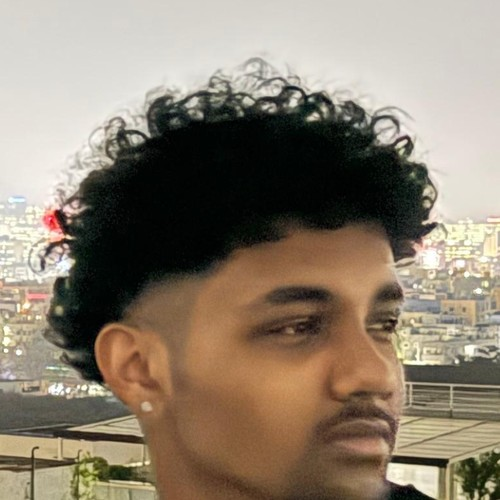
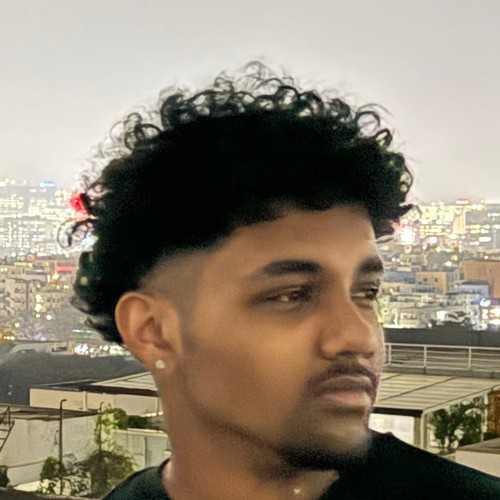
Re-crop badge photo, declutter hero copy, add work previews, wire real links
- Re-crop ID badge photo so the full head and chin are visible
- Trim home page hero copy (drop redundant eyebrow line, shorter tagline)
- Add hand-drawn SVG preview icons to each Work page project modal
- Wire real GitHub, LinkedIn, and email links across home and contact pages

diff --git a/work.js b/work.js
@@ -15,6 +15,11 @@
       tags: ["Python", "OpenCV", "TensorFlow"],
       link: "https://github.com/sidtatavarthi-dev/ObjectDetection",
       linkLabel: "View source on GitHub →",
+      preview: `<svg viewBox="0 0 100 100" fill="none" stroke="currentColor" stroke-width="4" stroke-linecap="round" stroke-linejoin="round">
+        <path d="M15 30 V15 H30" /><path d="M70 15 H85 V30" />
+        <path d="M85 70 V85 H70" /><path d="M30 85 H15 V70" />
+        <circle cx="50" cy="50" r="14" />
+      </svg>`,
     },
     {
       id: "jarvis",
@@ -29,6 +34,11 @@
       tags: ["Python", "Speech Recognition", "Automation"],
       link: "https://github.com/sidtatavarthi-dev/JarvisAssistant",
       linkLabel: "View source on GitHub →",
+      preview: `<svg viewBox="0 0 100 100" fill="none" stroke="currentColor" stroke-width="4" stroke-linecap="round" stroke-linejoin="round">
+        <rect x="40" y="18" width="20" height="40" rx="10" />
+        <path d="M28 48 a22 22 0 0 0 44 0" />
+        <path d="M50 70 V85" /><path d="M35 85 H65" />
+      </svg>`,
     },
     {
       id: "phonedetector",
@@ -43,6 +53,11 @@
       tags: ["Python", "OpenCV", "MediaPipe"],
       link: "https://github.com/sidtatavarthi-dev/PhoneDetector",
       linkLabel: "View source on GitHub →",
+      preview: `<svg viewBox="0 0 100 100" fill="none" stroke="currentColor" stroke-width="4" stroke-linecap="round" stroke-linejoin="round">
+        <rect x="32" y="12" width="36" height="76" rx="8" />
+        <path d="M46 80 H54" />
+        <path d="M18 50 H30" stroke-dasharray="4 6" /><path d="M70 50 H82" stroke-dasharray="4 6" />
+      </svg>`,
     },
     {
       id: "gesturechess",
@@ -57,6 +72,12 @@
       tags: ["Python", "MediaPipe", "Pygame"],
       link: "https://github.com/sidtatavarthi-dev/gesture-chess",
       linkLabel: "View source on GitHub →",
+      preview: `<svg viewBox="0 0 100 110" fill="currentColor">
+        <circle cx="50" cy="22" r="14" />
+        <rect x="44" y="36" width="12" height="8" rx="2" />
+        <path d="M33 50 C33 62 43 63 43 74 C43 84 30 85 28 96 L72 96 C70 85 57 84 57 74 C57 63 67 62 67 50 C67 44 61 42 50 42 C39 42 33 44 33 50 Z" />
+        <rect x="22" y="96" width="56" height="10" rx="4" />
+      </svg>`,
     },
     {
       id: "lanyard",
@@ -71,6 +92,13 @@
       tags: ["HTML/CSS/JS", "Physics", "Meta"],
       link: "index.html",
       linkLabel: "Return to home →",
+      preview: `<svg viewBox="0 0 100 100" fill="none" stroke="currentColor" stroke-width="4" stroke-linecap="round" stroke-linejoin="round">
+        <path d="M42 8 V20" /><path d="M58 8 V20" />
+        <rect x="30" y="20" width="40" height="10" rx="3" />
+        <rect x="26" y="34" width="48" height="54" rx="6" />
+        <circle cx="50" cy="53" r="8" />
+        <path d="M40 76 H60" />
+      </svg>`,
     },
   ];
 
@@ -118,7 +146,7 @@
         </div>
         <span class="modal-status status-${p.statusClass}">${p.status}</span>
       </div>
-      <div class="modal-preview">preview unavailable</div>
+      <div class="modal-preview" style="--file-color:${p.color}">${p.preview || ""}</div>
       <p class="modal-desc">${p.details}</p>
       <div class="modal-tags">${p.tags.map((t) => `<span class="modal-tag">${t}</span>`).join("")}</div>
       <a class="btn btn-primary" href="${p.link || "#"}" ${p.link === "index.html" ? "" : 'target="_blank" rel="noopener"'}>${p.linkLabel || "Open external link →"}</a>

diff --git a/index.html b/index.html
@@ -54,20 +54,16 @@
   <section class="hero-right">
     <div class="stamp stamp-approved home-stamp">Status: Online</div>
     <p class="boot-line" id="homeBootLine"></p>
-    <p class="eyebrow">Welcome to my corner of the internet</p>
     <h1 id="heroTitle">Building things<br>worth noticing.</h1>
-    <p class="tagline">
-      I design and build software, experiment with new ideas, and share
-      what I learn along the way. Drag my badge around — it won't mind.
-    </p>
+    <p class="tagline">If you're reading this, it worked.</p>
     <div class="cta-row">
       <a class="btn btn-primary" href="work.html">See my work</a>
       <a class="btn btn-ghost" href="contact.html">Get in touch</a>
     </div>
     <div class="socials">
-      <a href="#" aria-label="GitHub">GitHub</a>
-      <a href="#" aria-label="LinkedIn">LinkedIn</a>
-      <a href="#" aria-label="Email">Email</a>
+      <a href="https://github.com/sidtatavarthi-dev" target="_blank" rel="noopener" aria-label="GitHub">GitHub</a>
+      <a href="https://www.linkedin.com/in/siddhanth-tatavarthi-2975b029b/" target="_blank" rel="noopener" aria-label="LinkedIn">LinkedIn</a>
+      <a href="mailto:sidtatavarthi@gmail.com" aria-label="Email">Email</a>
     </div>
   </section>
 

diff --git a/contact.html b/contact.html
@@ -49,17 +49,17 @@
   <div class="channels">
     <p class="kicker">Other secure channels</p>
 
-    <a class="channel-row" href="#" target="_blank" rel="noopener">
+    <a class="channel-row" href="https://github.com/sidtatavarthi-dev" target="_blank" rel="noopener">
       <span class="channel-dot"></span>
       <span class="channel-freq">144.000 MHz</span>
       <span class="channel-name">GitHub</span>
     </a>
-    <a class="channel-row" href="#" target="_blank" rel="noopener">
+    <a class="channel-row" href="https://www.linkedin.com/in/siddhanth-tatavarthi-2975b029b/" target="_blank" rel="noopener">
       <span class="channel-dot"></span>
       <span class="channel-freq">88.500 MHz</span>
       <span class="channel-name">LinkedIn</span>
     </a>
-    <a class="channel-row" href="mailto:hello@example.com">
+    <a class="channel-row" href="mailto:sidtatavarthi@gmail.com">
       <span class="channel-dot"></span>
       <span class="channel-freq">100.724 MHz</span>
       <span class="channel-name">Email</span>

diff --git a/contact.js b/contact.js
@@ -68,9 +68,8 @@
       scrambleReveal(status, "MESSAGE ENCRYPTED. HANDING OFF TO MAIL CLIENT ...", 600);
       const subject = encodeURIComponent("Secure transmission from " + (name || "an anonymous agent"));
       const body = encodeURIComponent(message + (name ? `\n\n— ${name}` : ""));
-      // NOTE: placeholder address — swap for a real inbox before going live.
       setTimeout(() => {
-        window.location.href = `mailto:hello@example.com?subject=${subject}&body=${body}`;
+        window.location.href = `mailto:sidtatavarthi@gmail.com?subject=${subject}&body=${body}`;
       }, 700);
     }, 550);
   });

diff --git a/work.css b/work.css
@@ -276,11 +276,15 @@
   display: flex;
   align-items: center;
   justify-content: center;
-  color: #4b4f5a;
-  font-family: "Courier New", monospace;
-  font-size: 12px;
-  letter-spacing: 1px;
   margin-bottom: 20px;
+}
+
+.modal-preview svg {
+  width: 72px;
+  height: 72px;
+  color: var(--file-color, #4b4f5a);
+  filter: drop-shadow(0 0 14px currentColor);
+  opacity: 0.95;
 }
 
 .modal-desc {

diff --git a/style.css b/style.css
@@ -423,15 +423,6 @@ html, body {
   padding: 4px 12px;
 }
 
-.eyebrow {
-  color: var(--accent-2);
-  font-size: 13px;
-  letter-spacing: 2px;
-  text-transform: uppercase;
-  font-weight: 600;
-  margin: 0 0 16px;
-}
-
 .hero-right h1 {
   font-size: clamp(36px, 5vw, 58px);
   line-height: 1.08;
